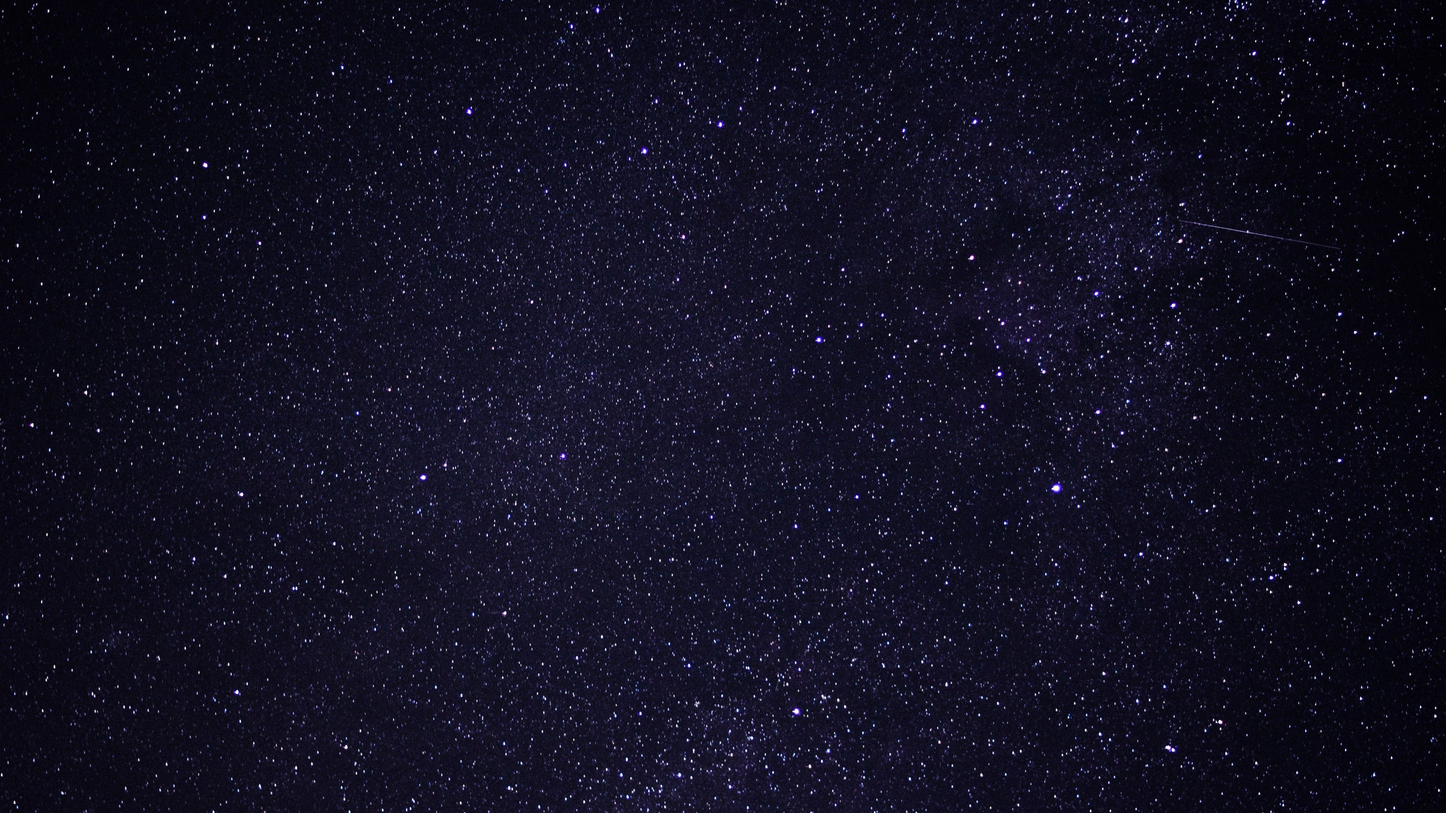
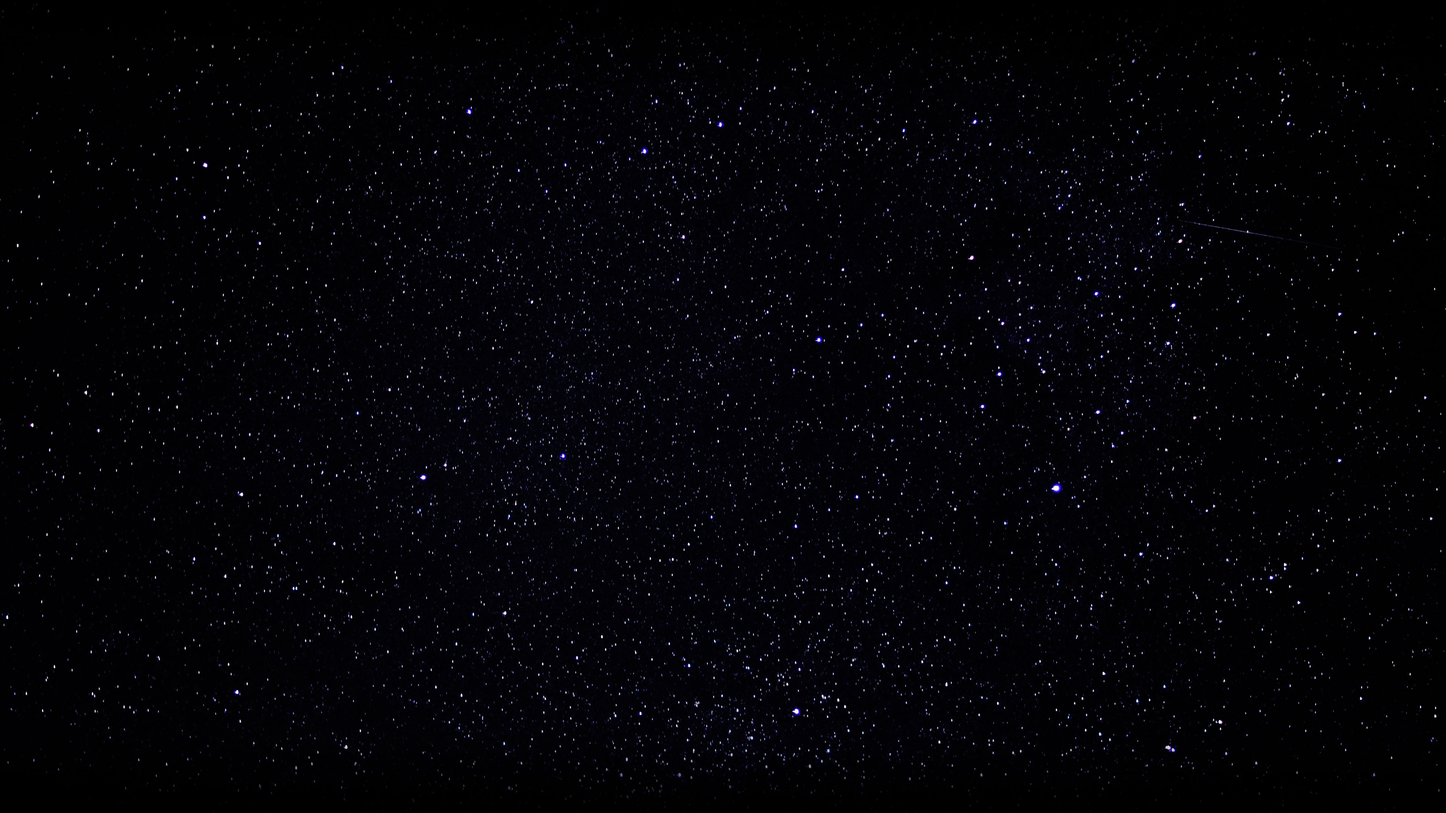
backgroundUpdate

diff --git a/index.html b/index.html
@@ -1,88 +1,107 @@
 <!DOCTYPE html>
 <html lang="pt-br">
-
-<head>
+  <head>
     <meta charset="UTF-8" />
     <meta http-equiv="X-UA-Compatible" content="IE=edge" />
     <meta name="viewport" content="width=device-width, initial-scale=1.0" />
 
-    <link rel="shortcut icon" href="assets/images/mugverse-icon-min.png" type="image/x-icon">
-
+    <link
+      rel="shortcut icon"
+      href="assets/images/mugverse-icon-min.png"
+      type="image/x-icon"
+    />
+    <script
+      src="https://kit.fontawesome.com/5b242c111d.js"
+      crossorigin="anonymous"
+    ></script>
     <link rel="stylesheet" href="assets/css/style.css" />
 
-    <link href="https://cdn.jsdelivr.net/npm/bootstrap@5.0.1/dist/css/bootstrap.min.css" rel="stylesheet"
-        integrity="sha384-+0n0xVW2eSR5OomGNYDnhzAbDsOXxcvSN1TPprVMTNDbiYZCxYbOOl7+AMvyTG2x" crossorigin="anonymous">
+    <link
+      href="https://cdn.jsdelivr.net/npm/bootstrap@5.0.1/dist/css/bootstrap.min.css"
+      rel="stylesheet"
+      integrity="sha384-+0n0xVW2eSR5OomGNYDnhzAbDsOXxcvSN1TPprVMTNDbiYZCxYbOOl7+AMvyTG2x"
+      crossorigin="anonymous"
+    />
 
     <script type="text/javascript" src="assets/js/products.js"></script>
     <script type="text/javascript" src="assets/js/script.js"></script>
-    <script async src="https://pagead2.googlesyndication.com/pagead/js/adsbygoogle.js?client=ca-pub-9784301463878946"
-        crossorigin="anonymous"></script>
+    <script
+      async
+      src="https://pagead2.googlesyndication.com/pagead/js/adsbygoogle.js?client=ca-pub-9784301463878946"
+      crossorigin="anonymous"
+    ></script>
     <script src="assets/js/jquery-3.6.0.min.js"></script>
     <title>Mugverse - Canecas</title>
-</head>
+  </head>
 
-<body>
-    <div class="stars"></div>
-    <div class="twinkling"></div>
-    <div class="clouds">
-        <header class="header-area">
-            <div class="logo-area">
-                <img class="img-fluid" src="assets/images/Logo02.png" />
-            </div>
-            <div class="buttons">
-                <a target="_blank" class="btn btn-outline-dark mb-2" href="https://www.instagram.com/mugverse/">
-                    <i class="fab fa-instagram"></i> Siga a gente no <span class="insta">Instagram</span>
-                </a>
-            </div>
-        </header>
+  <body>
+    <div class="main-section">
+      <header class="header-area">
+        <div class="logo-area">
+          <img class="img-fluid" src="assets/images/Logo02.png" />
+        </div>
+        <div class="buttons">
+          <a
+            target="_blank"
+            class="btn btn-outline-dark mb-2"
+            href="https://www.instagram.com/mugverse/"
+          >
+            <i class="fab fa-instagram"></i> Siga a gente no
+            <span class="insta">Instagram</span>
+          </a>
+        </div>
+      </header>
 
+      <!-- Search Area -->
+      <section class="campos container">
+        <div class="search-area">
+          <i class="fas fa-search"></i>
+          <input
+            type="text"
+            onkeyup="buscarProduto()"
+            placeholder="Busque algum produto..."
+            id="filter"
+            class="buscar-input"
+          />
+        </div>
+      </section>
+      <!-- Area de Produtos -->
+      <section class="produtos">
+        <div class="pCard-list"></div>
+      </section>
 
-        <!-- Search Area -->
-        <section class="campos container">
-            <div class="search-area">
-                <i class="fas fa-search"></i>
-                <input type="text" onkeyup="buscarProduto()" placeholder="Busque algum produto..." id="filter"
-                    class="buscar-input">
-            </div>
-        </section>
-        <!-- Area de Produtos -->
-        <section class="produtos">
-            <div class="pCard-list">
-
-            </div>
-        </section>
-
-        <section class="sobre mt-5">
-            <div class="container">
-                <h1>Sobre Nós</h1>
-                <p>
-                    Assim como você nós sempre tivemos uma grande paixão por todo esse universo incrível que é a cultura
-                    pop, e com essa paixão nasceu também a vontade de criar, participar e levar a você, um produto de
-                    qualidade, e acima de tudo. da sua paixão!<br><br>
-                    <span>
-                        Somos uma pequena produtora de canecas personalizadas localizada
-                        em Muriaé-MG que, visa sempre a qualidade dos produtos e
-                        satisfação de cada cliente. Utilizamos canecas de porcelanas
-                        importadas com qualidade AAA+, a melhor encontrada no mercado,
-                        junto isso com nossa impressão na mais alta resolução, sua caneca
-                        fica perfeita!
-                    </span><br><br> Comprando conosco, você nos ajuda a escrever nossa história, melhorar e crescer,
-                    todos os nossos produtos foram idealizados com o maior carinho de alguém que você pode ter certeza,
-                    que assim como
-                    você, ama o universo geek.
-                </p>
-            </div>
-        </section>
+      <section class="sobre mt-5">
+        <div class="container">
+          <h1>Sobre Nós</h1>
+          <p>
+            Assim como você nós sempre tivemos uma grande paixão por todo esse
+            universo incrível que é a cultura pop, e com essa paixão nasceu
+            também a vontade de criar, participar e levar a você, um produto de
+            qualidade, e acima de tudo. da sua paixão!<br /><br />
+            <span>
+              Somos uma pequena produtora de canecas personalizadas localizada
+              em Muriaé-MG que, visa sempre a qualidade dos produtos e
+              satisfação de cada cliente. Utilizamos canecas de porcelanas
+              importadas com qualidade AAA+, a melhor encontrada no mercado,
+              junto isso com nossa impressão na mais alta resolução, sua caneca
+              fica perfeita! </span
+            ><br /><br />
+            Comprando conosco, você nos ajuda a escrever nossa história,
+            melhorar e crescer, todos os nossos produtos foram idealizados com o
+            maior carinho de alguém que você pode ter certeza, que assim como
+            você, ama o universo geek.
+          </p>
+        </div>
+      </section>      
     </div>
     <section class="footer">
-        <p class="footer-text">Made with <i class="fab fa-js-square" title="JavaScript"></i><i title="HTML5"
-                class="fab fa-html5"></i>by <a href="https://www.linkedin.com/in/higor-turetta/" target="_blank">Higor
-                Turetta</a></p>
-    </section>
-
+        <p class="footer-text">
+          Made with <i class="fa-solid fa-heart" style="color: #db0000;"></i>
+        </p>
+        <a class="footer-text" href="https://www.instagram.com/mugverse/" target="_blank">Siga a gente no insta :D <i class="fa-brands fa-instagram fa-lg" style="color: #212121;"></i></a>
+      </section>
 
     <script src="assets/js/script.js"></script>
     <script src="assets/js/bootstrap.min.js"></script>
-</body>
-
+  </body>
 </html>

diff --git a/assets/css/style.css b/assets/css/style.css
@@ -108,61 +108,12 @@
     }
 }
 
-/* background */
-
-@import "susy";
-@import "compass/reset";
-.stars, .twinkling, .clouds {
-    position: absolute;
-    display: block;
-    top: 0;
-    bottom: 0;
-    left: 0;
-    right: 0;
-    width: 100vw;
-    height: 7500px;
-}
-
-@media screen and (max-width:750px){
-    .stars, .twinkling, .clouds {
-        min-height: 8000px;
-    }
-}
-
-.stars {
-    z-index: 0;
-    background: #000 url('../images/stars.png') repeat top center;
-}
-
-.twinkling {
-    z-index: 1;
-    background: transparent url('../images/twinkling.png') repeat top center;
-    animation: move-twink-back 200s linear infinite;
-    
-}
-
-.clouds {
-    z-index: 2;
-    background: transparent url('../images/clouds.png') repeat top center;
-    animation: move-clouds-back 200s linear infinite;
-}
-
-@keyframes move-twink-back {
-    from {
-        background-position: 0 0;
-    }
-    to {
-        background-position: -10000px 5000px;
-    }
-}
-
-@keyframes move-clouds-back {
-    from {
-        background-position: 0 0;
-    }
-    to {
-        background-position: 10000px 0;
-    }
+.main-section{
+    background-image: url('/assets/images/fundo.jpg');
+    background-size: contain;
+    background-repeat: repeat;
+    background-position: center;
+    padding-bottom: 10vh;
 }
 
 /*  ini: produtos */
@@ -349,32 +300,23 @@
 /* ini: footer */
 
 .footer{
-    position: absolute;    
-    bottom: 2%;
-    left: 50%;
-    transform: translate(-50%, -2%);
+    display: flex;
+    justify-content: space-around;
+    align-items: center;
+    height: 2.5rem;
+    width: 100%;
+    background-color: #eee;
 }
 
 .footer-text{
-    color: white;
+    color: #1b1b1b;
     font-family: var(--bebas-neue);
     letter-spacing: 1px;
-    text-align: center;
+    margin: 0;
+    text-decoration: none;
+    transition: all 0.3s;
 }
-.footer-text i{
-    margin: 0 5px;
-    font-size: 1.3rem;
-    color: orange;
-    
-}
-.footer-text i:first-of-type{
-    color: yellow;
-}
-
-@media screen and (max-width: 600px){
-    .footer{
-       left: 40%;
-       transform: translate(-30%, -2%);
-    }
+.footer a:hover{
+    color: rgb(58, 67, 166);
 }
 /* end: footer */
